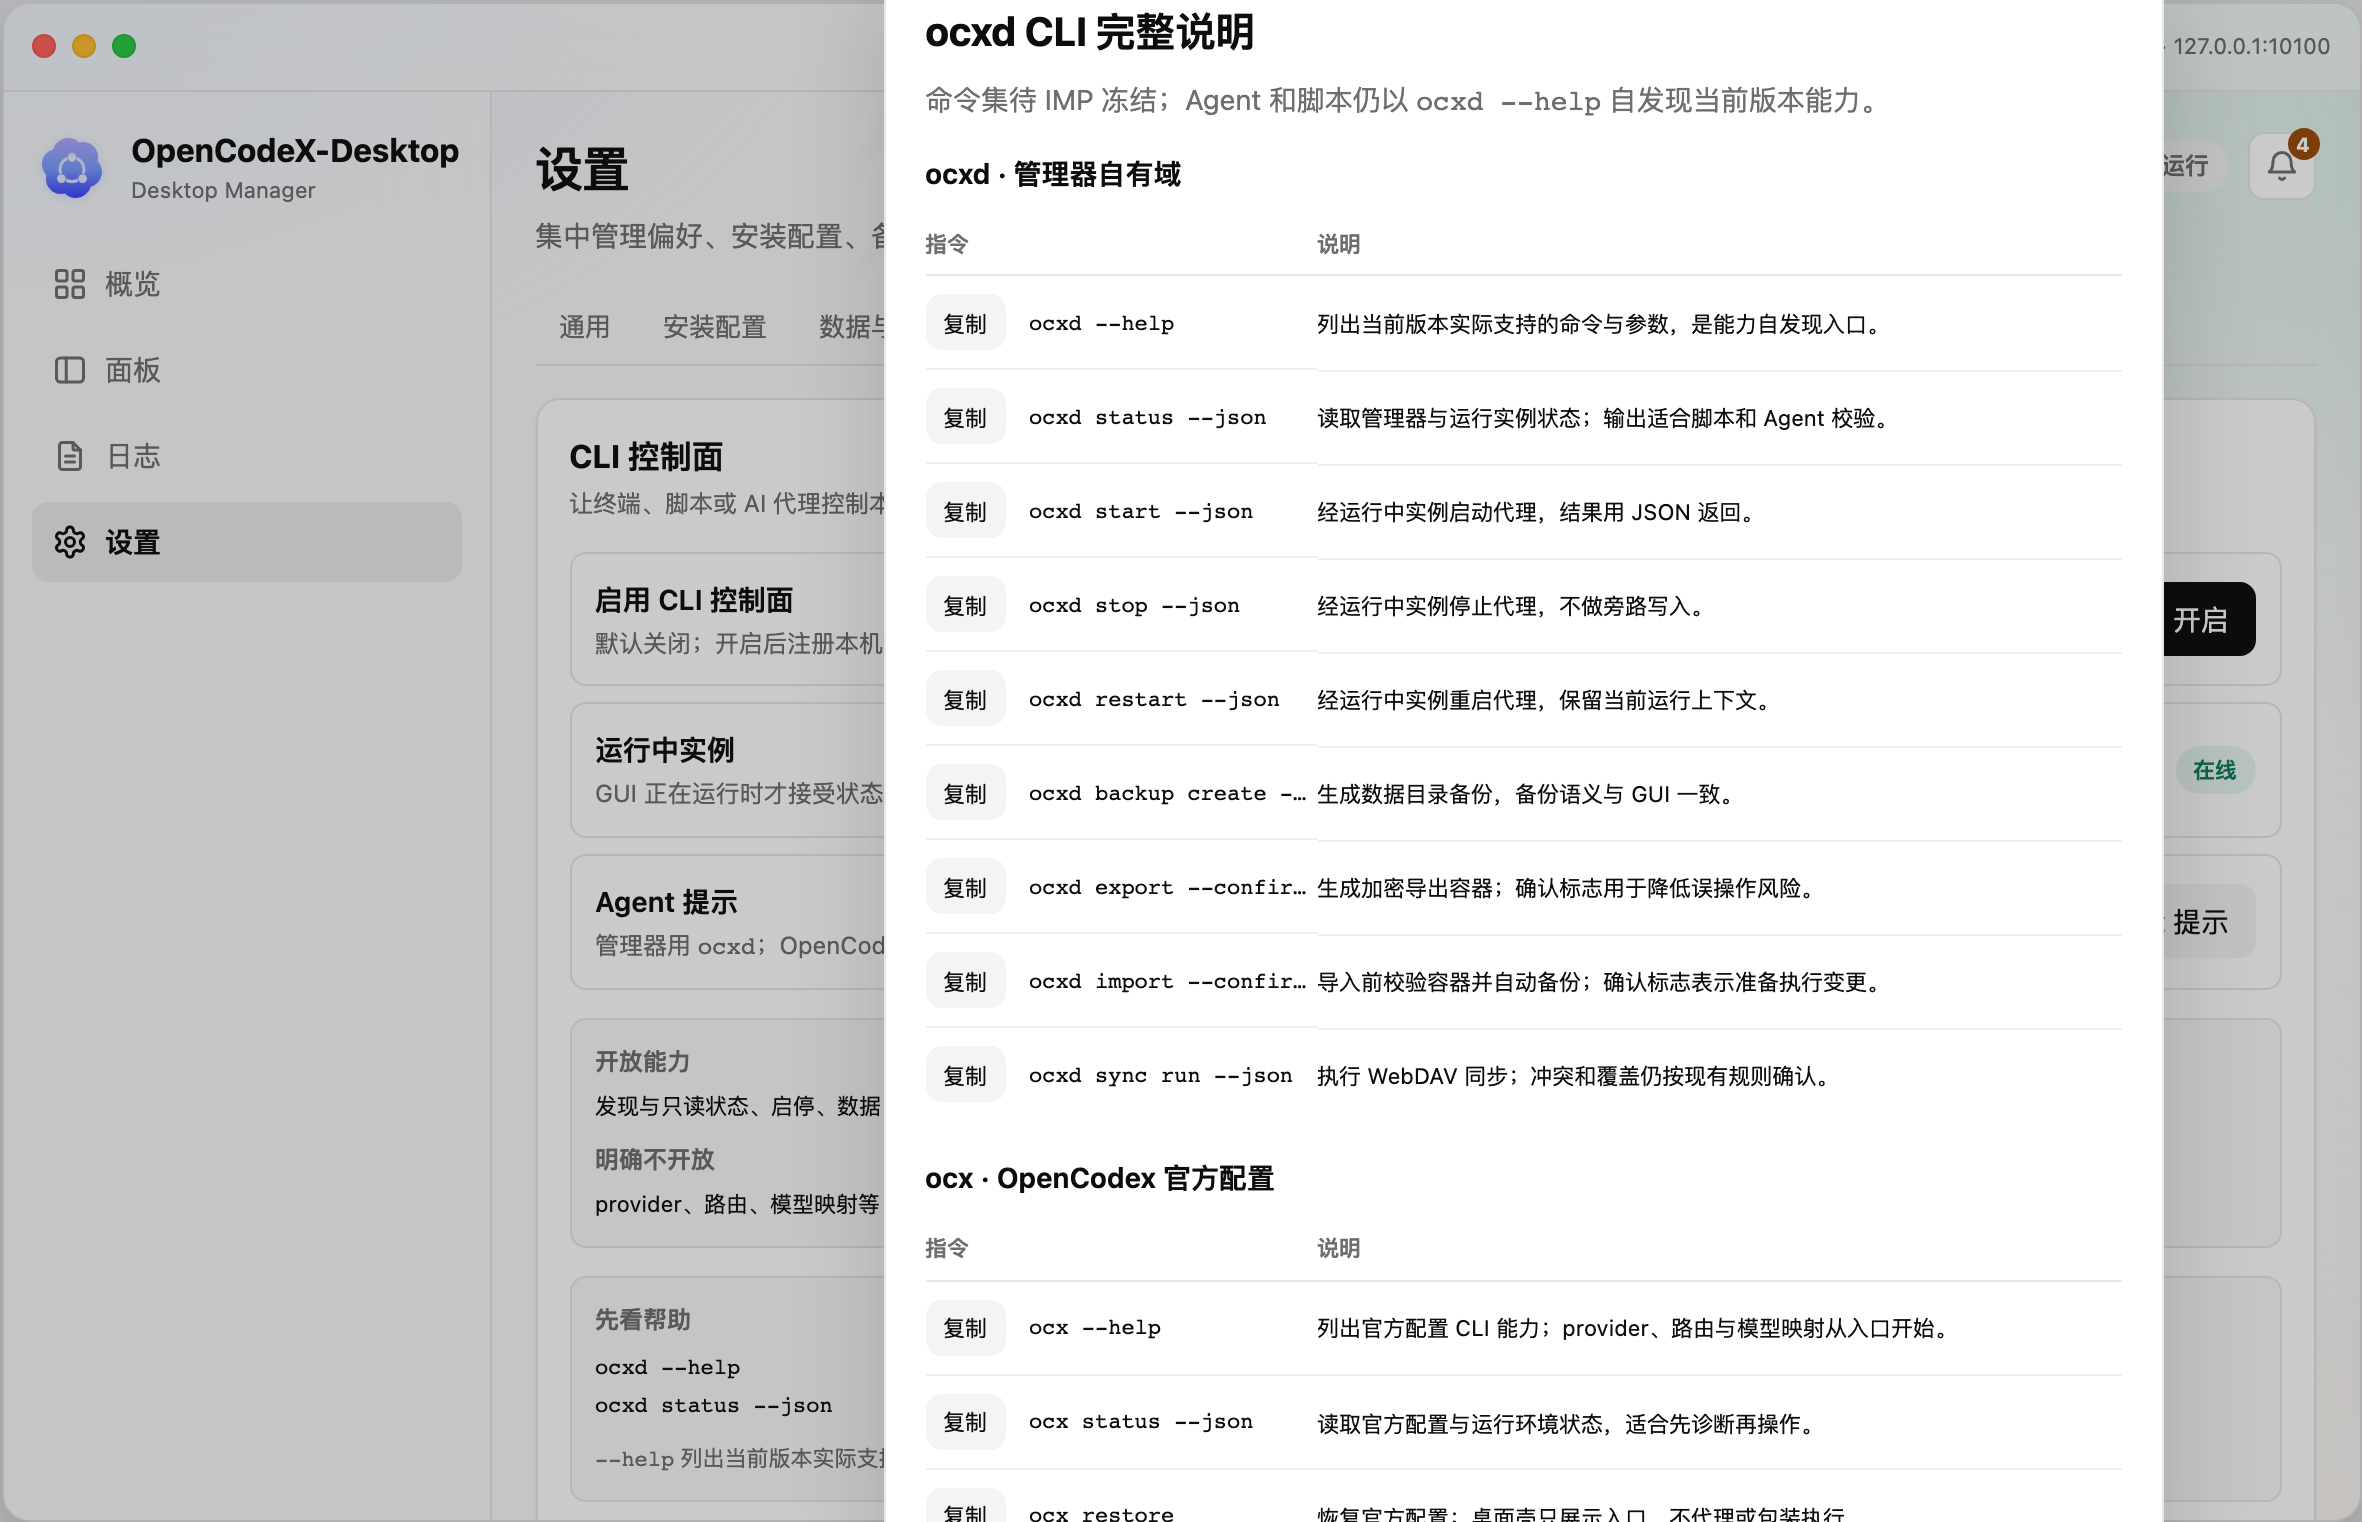
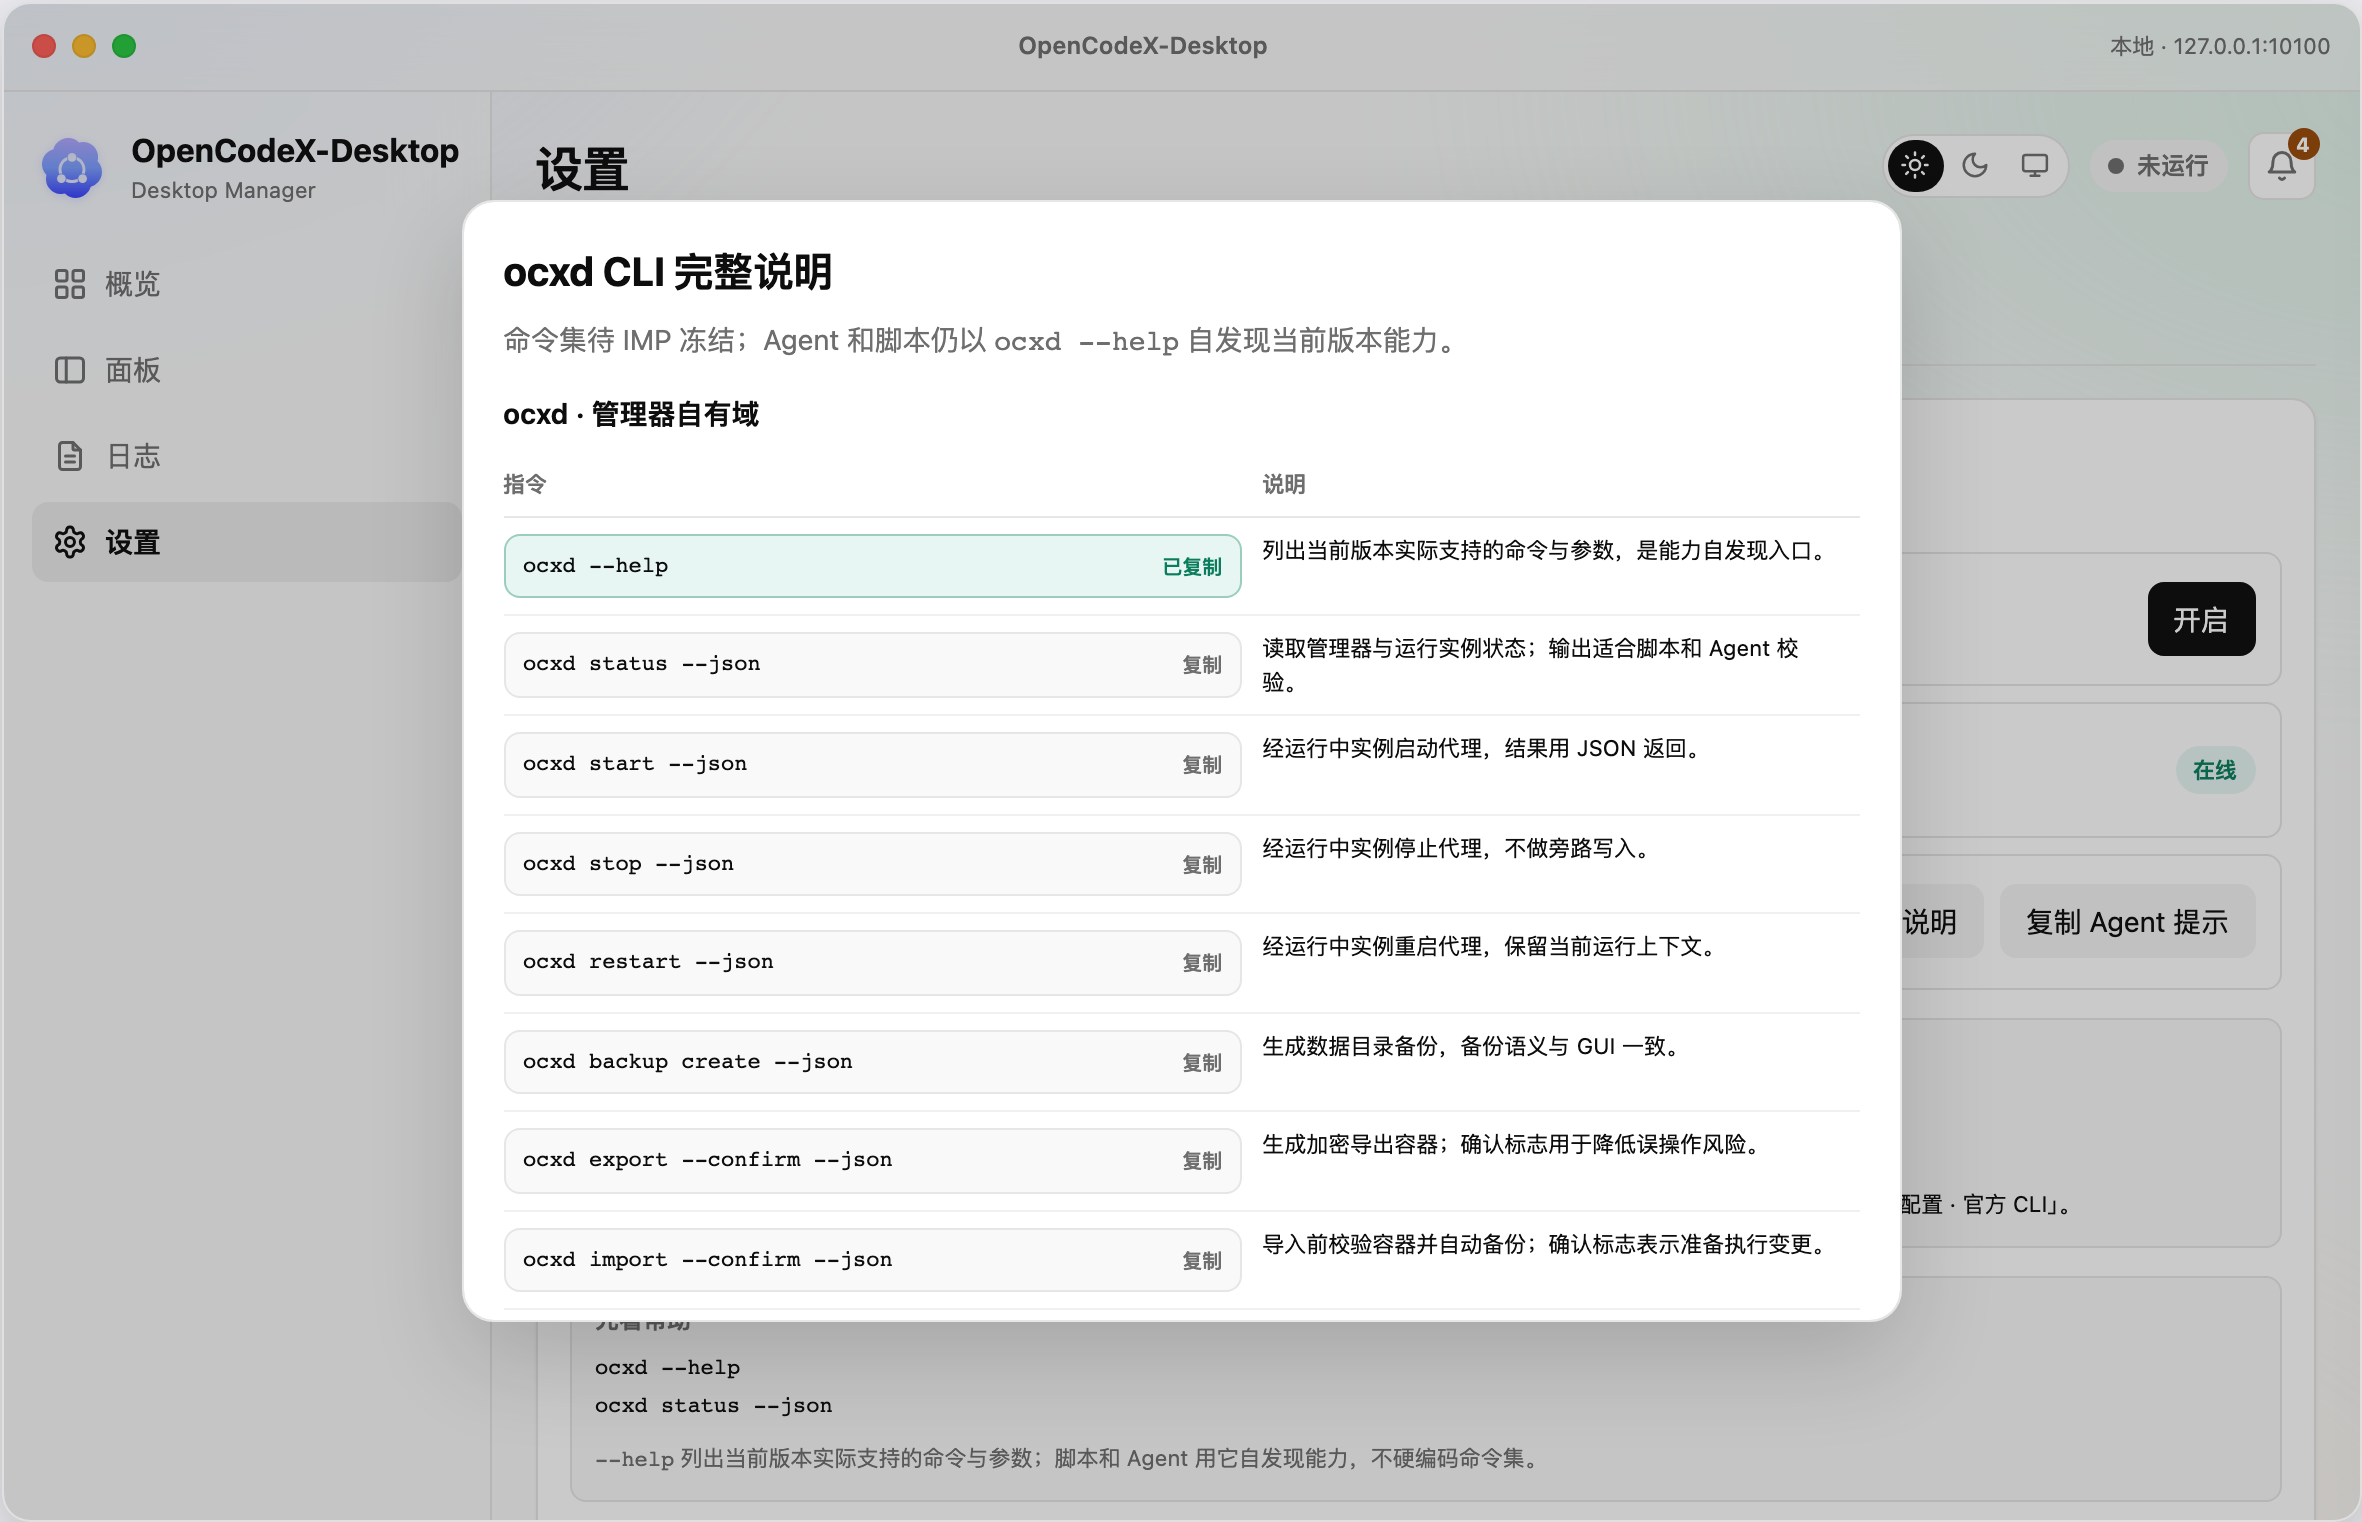
docs(设计): 记录 CLI 帮助弹窗比例与复制态实测
- design-qa 记录窗口比例、遮罩位置和点击复制态。
- state-and-flows 同步可点击指令表格形态。
- CLI 分区与帮助弹窗特写重出。

diff --git a/docs/04-项目资料/03-项目协作资料/01-协作包/2026-09-12-OpenCodex桌面管理器需求协作/05-原型设计/文档/design-qa.md b/docs/04-项目资料/03-项目协作资料/01-协作包/2026-09-12-OpenCodex桌面管理器需求协作/05-原型设计/文档/design-qa.md
@@ -1302,3 +1302,19 @@ CLI 详细用法不放设置常驻区，提供三个候选承载：
 - 帮助弹窗只保留 `ocxd` 与 `ocx` 两个区块，共 13 条指令；点击第一条显示「复制 `ocxd --help`」toast，弹窗仍开启。
 - `node --check` 通过；5 路由零报错；4 路由 × 8 设置分区 × 2 主题 × 2 尺寸回归零 console/page error。
 - CLI 分区与帮助弹窗特写重出。
+
+## 2026-09-13 · CLI 帮助弹窗按窗口比例与点击复制定稿
+
+### 反馈与修法
+
+- 帮助弹窗不再超出软件窗口：宽版尺寸改为 `min(86%, 720px)`，高度上限改为 `78%`；弹窗内部继续滚动。
+- 弹窗遮罩从原型侧栏容器移回软件窗口内容区，使高度比例和遮罩都相对软件窗口计算。
+- 去掉独立「复制」按钮：整条指令就是可点击复制面，右侧常态显示「复制」，点击后显示「已复制」并在 1.4 秒后还原；toast 保留原型边界提示。
+- 指令列与说明列调整为 56% / 44%，长命令不再挤压说明。
+
+### 实测
+
+- 1180 × 760 软件窗口下，帮助弹窗约 720 × 560，宽高占比约 61% / 74%，未超出窗口。
+- 点击 `ocxd --help` 后，指令面显示「已复制」，弹窗保持开启；1.4 秒后恢复「复制」。
+- `node --check` 通过；5 路由零报错；4 路由 × 8 设置分区 × 2 主题 × 2 尺寸回归零 console/page error。
+- CLI 分区与帮助弹窗特写重出。

diff --git a/docs/04-项目资料/03-项目协作资料/01-协作包/2026-09-12-OpenCodex桌面管理器需求协作/05-原型设计/文档/state-and-flows.md b/docs/04-项目资料/03-项目协作资料/01-协作包/2026-09-12-OpenCodex桌面管理器需求协作/05-原型设计/文档/state-and-flows.md
@@ -189,7 +189,7 @@
 
 - 设置新增独立分区，默认关闭；开启前弹出确认，说明本机 IPC、运行中实例委托和仅管理器自有域边界。
 - 管理器 CLI 命令名定稿为 `ocxd`；官方 CLI 仍为 `ocx`。开启后显示实例在线状态、Agent 提示、规则块、帮助入口、自有域示例、官方 CLI 速查与 Agent 提示片段。
-- Agent 提示行提供「复制 Agent 提示」与「查看完整说明」；前者只触发原型 toast，真实实现复制底部显示片段。完整说明采用方案 B 弹窗，按 `ocxd` 与 `ocx` 分区，逐条提供「复制按钮 + 指令 + 说明」表格，并标注退出码待 IMP 冻结。
+- Agent 提示行提供「复制 Agent 提示」与「查看完整说明」；前者只触发原型 toast，真实实现复制底部显示片段。完整说明采用方案 B 弹窗，按 `ocxd` 与 `ocx` 分区，逐条提供「可点击指令 + 右侧说明」表格；点击指令展示复制态，并标注退出码待 IMP 冻结。
 - `ocxd --help` 是能力自发现入口；`ocx --help / status --json / restore / update` 作为官方 CLI 速查展示，但桌面壳不代理或包装官方写入动作。
 - 「开放能力 / 明确不开放」放在独立规则块，不作为可配置选项，provider / 路由 / 模型映射仍标为官方 CLI。
 - 原型不注册 PATH、不复制剪贴板、不建立真实 IPC；具体命令集待 IMP 冻结。
